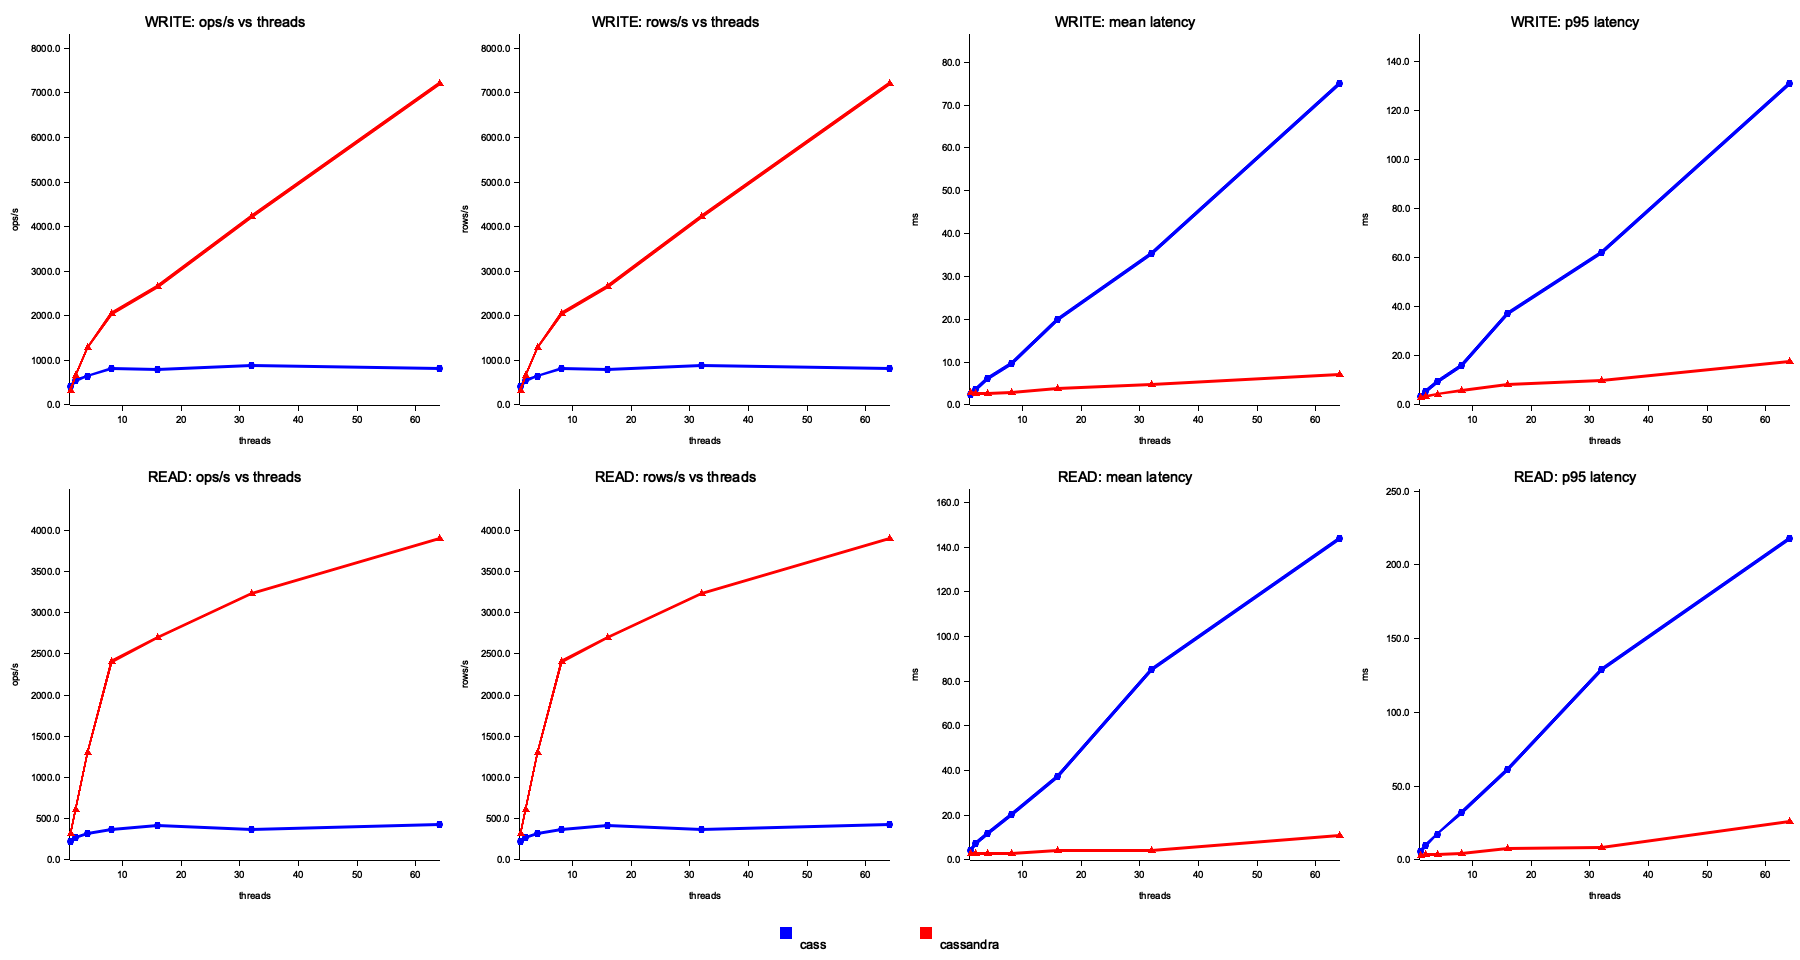
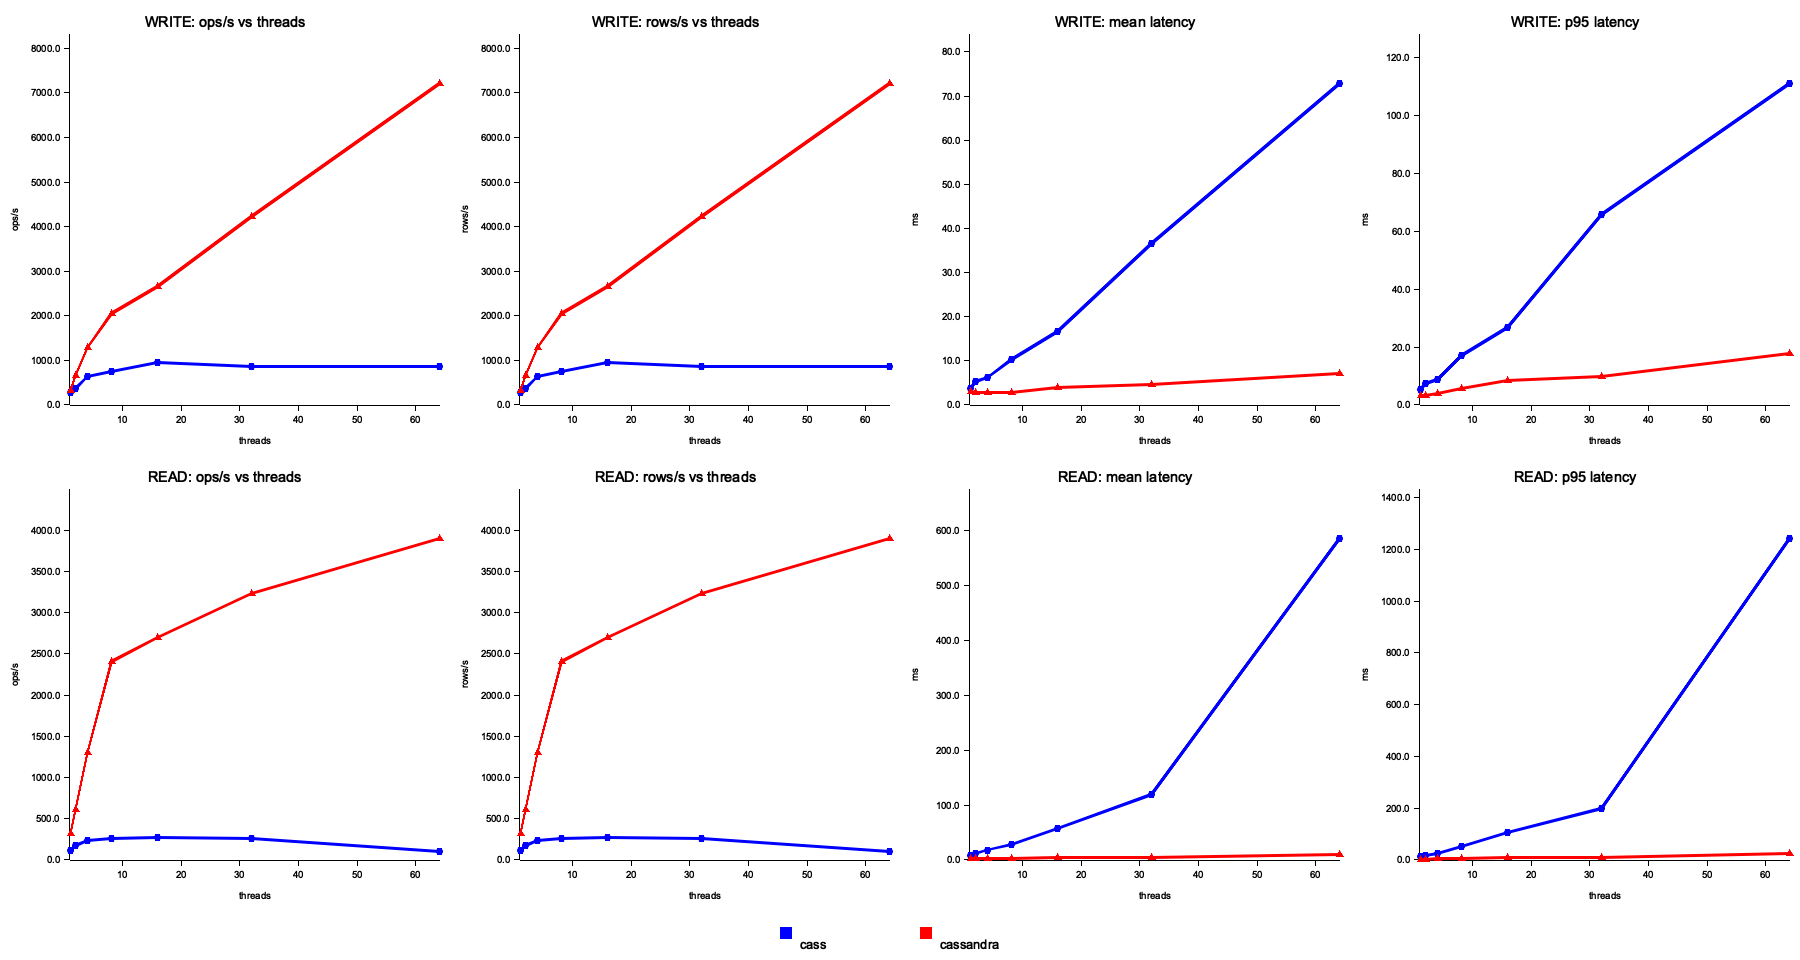
Try to make the perf client more performant

diff --git a/examples/perf_client.rs b/examples/perf_client.rs
@@ -3,6 +3,7 @@ use std::time::Instant;
 use cass::rpc::{QueryRequest, cass_client::CassClient};
 use clap::Parser;
 use statrs::statistics::Statistics;
+use futures::stream::{self, StreamExt};
 use tokio::fs;
 use url::Url;
 
@@ -17,6 +18,9 @@ struct Args {
     /// Number of concurrent client threads/tasks to use
     #[clap(long, default_value_t = 1)]
     threads: usize,
+    /// Max in-flight RPCs per thread/task
+    #[clap(long, default_value_t = 1)]
+    inflight: usize,
     /// Optional path to write the node's Prometheus metrics after the run
     #[clap(long)]
     metrics_out: Option<String>,
@@ -37,10 +41,10 @@ async fn main() -> Result<(), Box<dyn std::error::Error>> {
 
     // Writes with concurrency
     let (write_lat_ms, write_dur) =
-        run_phase(args.node.clone(), args.ops, args.threads, true).await?;
+        run_phase(args.node.clone(), args.ops, args.threads, args.inflight, true).await?;
     // Reads with concurrency
     let (read_lat_ms, read_dur) =
-        run_phase(args.node.clone(), args.ops, args.threads, false).await?;
+        run_phase(args.node.clone(), args.ops, args.threads, args.inflight, false).await?;
 
     // Report in a style similar to cassandra-stress
     report("WRITE", args.ops, write_dur.as_secs_f64(), &write_lat_ms);
@@ -71,52 +75,50 @@ async fn run_phase(
     node: String,
     ops: usize,
     threads: usize,
+    inflight: usize,
     write: bool,
 ) -> Result<(Vec<f64>, std::time::Duration), Box<dyn std::error::Error>> {
-    use std::sync::{Arc, Mutex};
     let threads = threads.max(1);
-    let latencies: Arc<Mutex<Vec<f64>>> = Arc::new(Mutex::new(Vec::with_capacity(ops)));
     let start = Instant::now();
 
     // Partition ops across threads as evenly as possible
     let base = ops / threads;
     let rem = ops % threads;
     let mut handles = Vec::with_capacity(threads);
+    // Establish a base client once; clones share the underlying HTTP/2 channel
+    let base_client = std::sync::Arc::new(CassClient::connect(node.clone()).await?);
     for t in 0..threads {
-        let node_cl = node.clone();
-        let lat_cl = latencies.clone();
+        let base_client = base_client.clone();
         let count = if t < rem { base + 1 } else { base };
         let offset = t * base + t.min(rem);
         handles.push(tokio::spawn(async move {
-            if count == 0 {
-                return;
-            }
-            let mut client = CassClient::connect(node_cl).await.expect("connect");
-            for i in 0..count {
+            let inflight = inflight.max(1);
+            if count == 0 { return Vec::<f64>::new(); }
+            let futs = (0..count).map(|i| {
+                // clone a client for this op; clones share the channel
+                let mut client = (*base_client).clone();
                 let k = offset + i;
                 let sql = if write {
                     format!("INSERT INTO perf VALUES ({}, {})", k, k)
                 } else {
                     format!("SELECT * FROM perf WHERE k = {}", k)
                 };
-                let op_start = Instant::now();
-                let _ = client.query(QueryRequest { sql }).await;
-                let dur_ms = op_start.elapsed().as_secs_f64() * 1000.0;
-                if let Ok(mut v) = lat_cl.lock() {
-                    v.push(dur_ms);
+                async move {
+                    let op_start = Instant::now();
+                    let _ = client.query(QueryRequest { sql }).await;
+                    op_start.elapsed().as_secs_f64() * 1000.0
                 }
-            }
+            });
+            let lats: Vec<f64> = stream::iter(futs).buffer_unordered(inflight).collect().await;
+            lats
         }));
     }
+    let mut all = Vec::with_capacity(ops);
     for h in handles {
-        let _ = h.await;
+        if let Ok(v) = h.await { all.extend(v); }
     }
     let dur = start.elapsed();
-    let out = match Arc::try_unwrap(latencies) {
-        Ok(m) => m.into_inner().unwrap_or_default(),
-        Err(a) => a.lock().unwrap().clone(),
-    };
-    Ok((out, dur))
+    Ok((all, dur))
 }
 
 fn report(kind: &str, ops: usize, total_secs: f64, lat_ms: &[f64]) {
